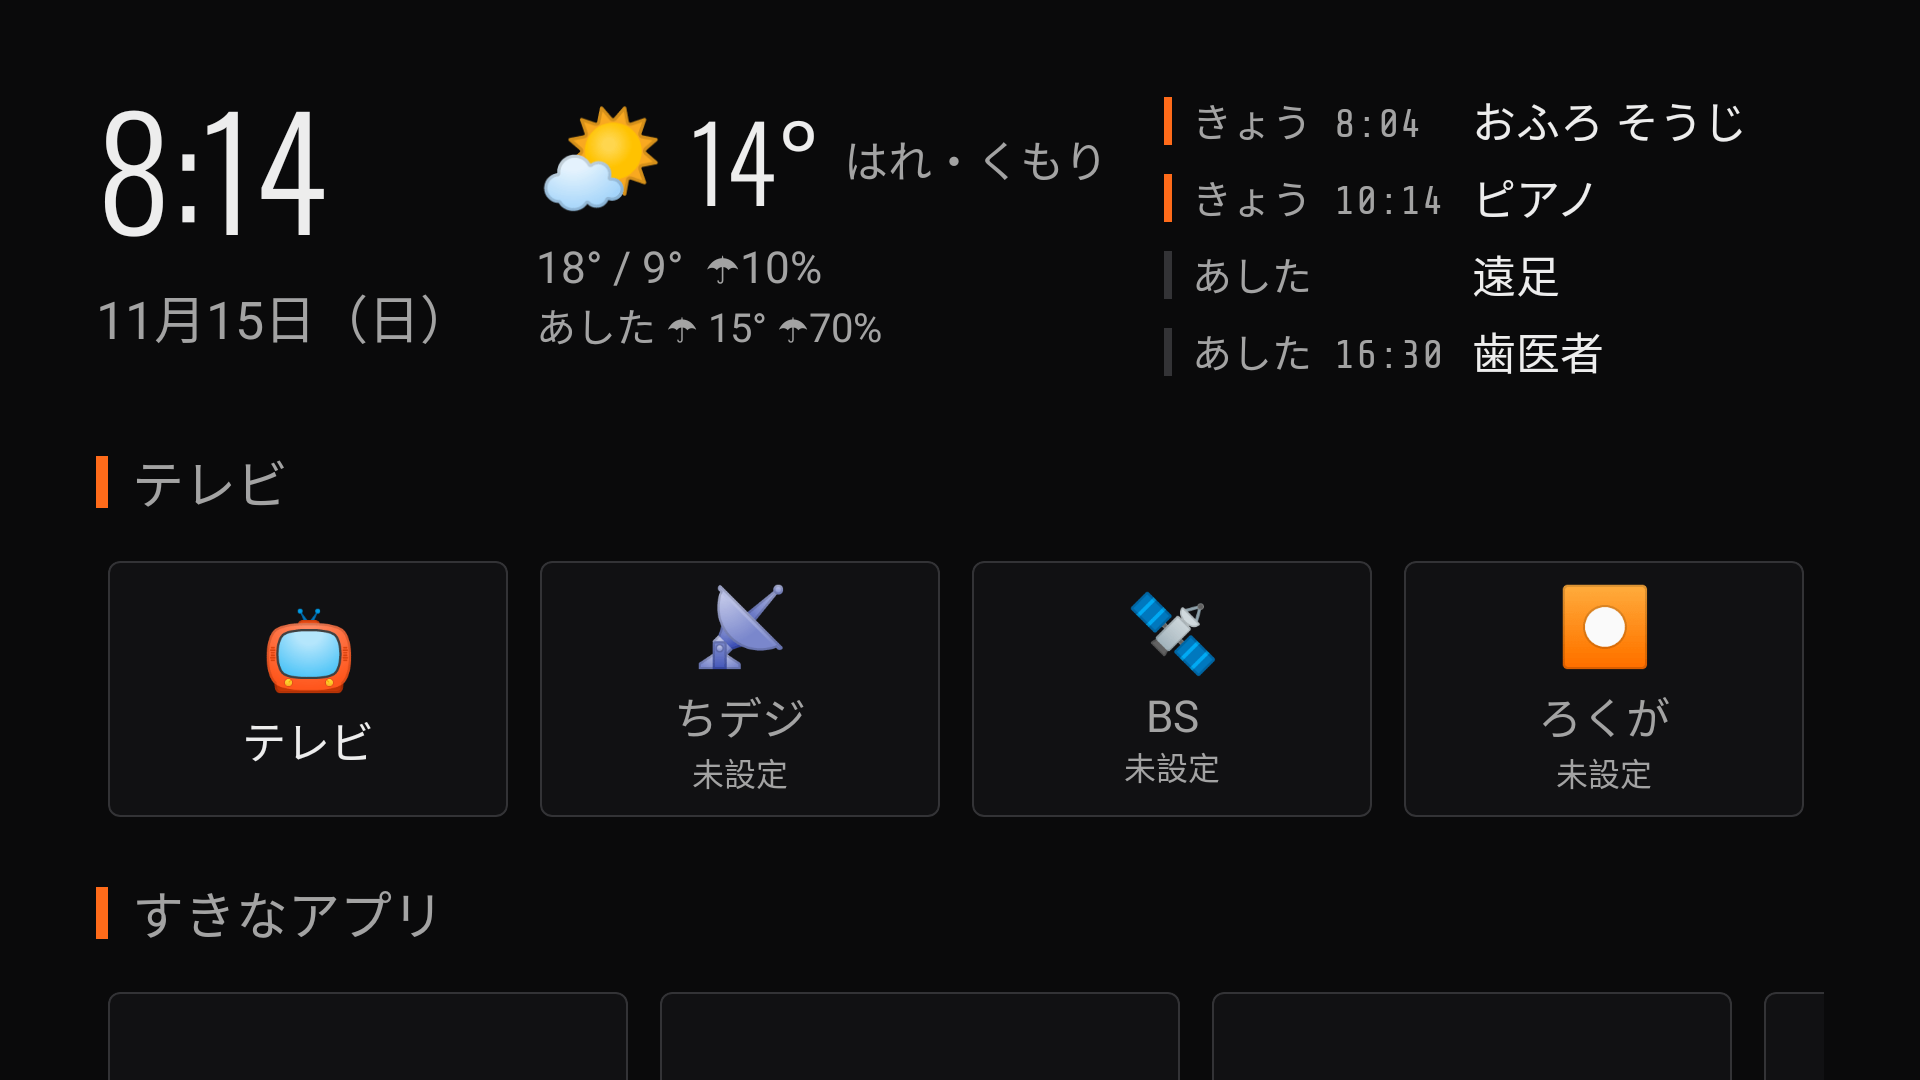
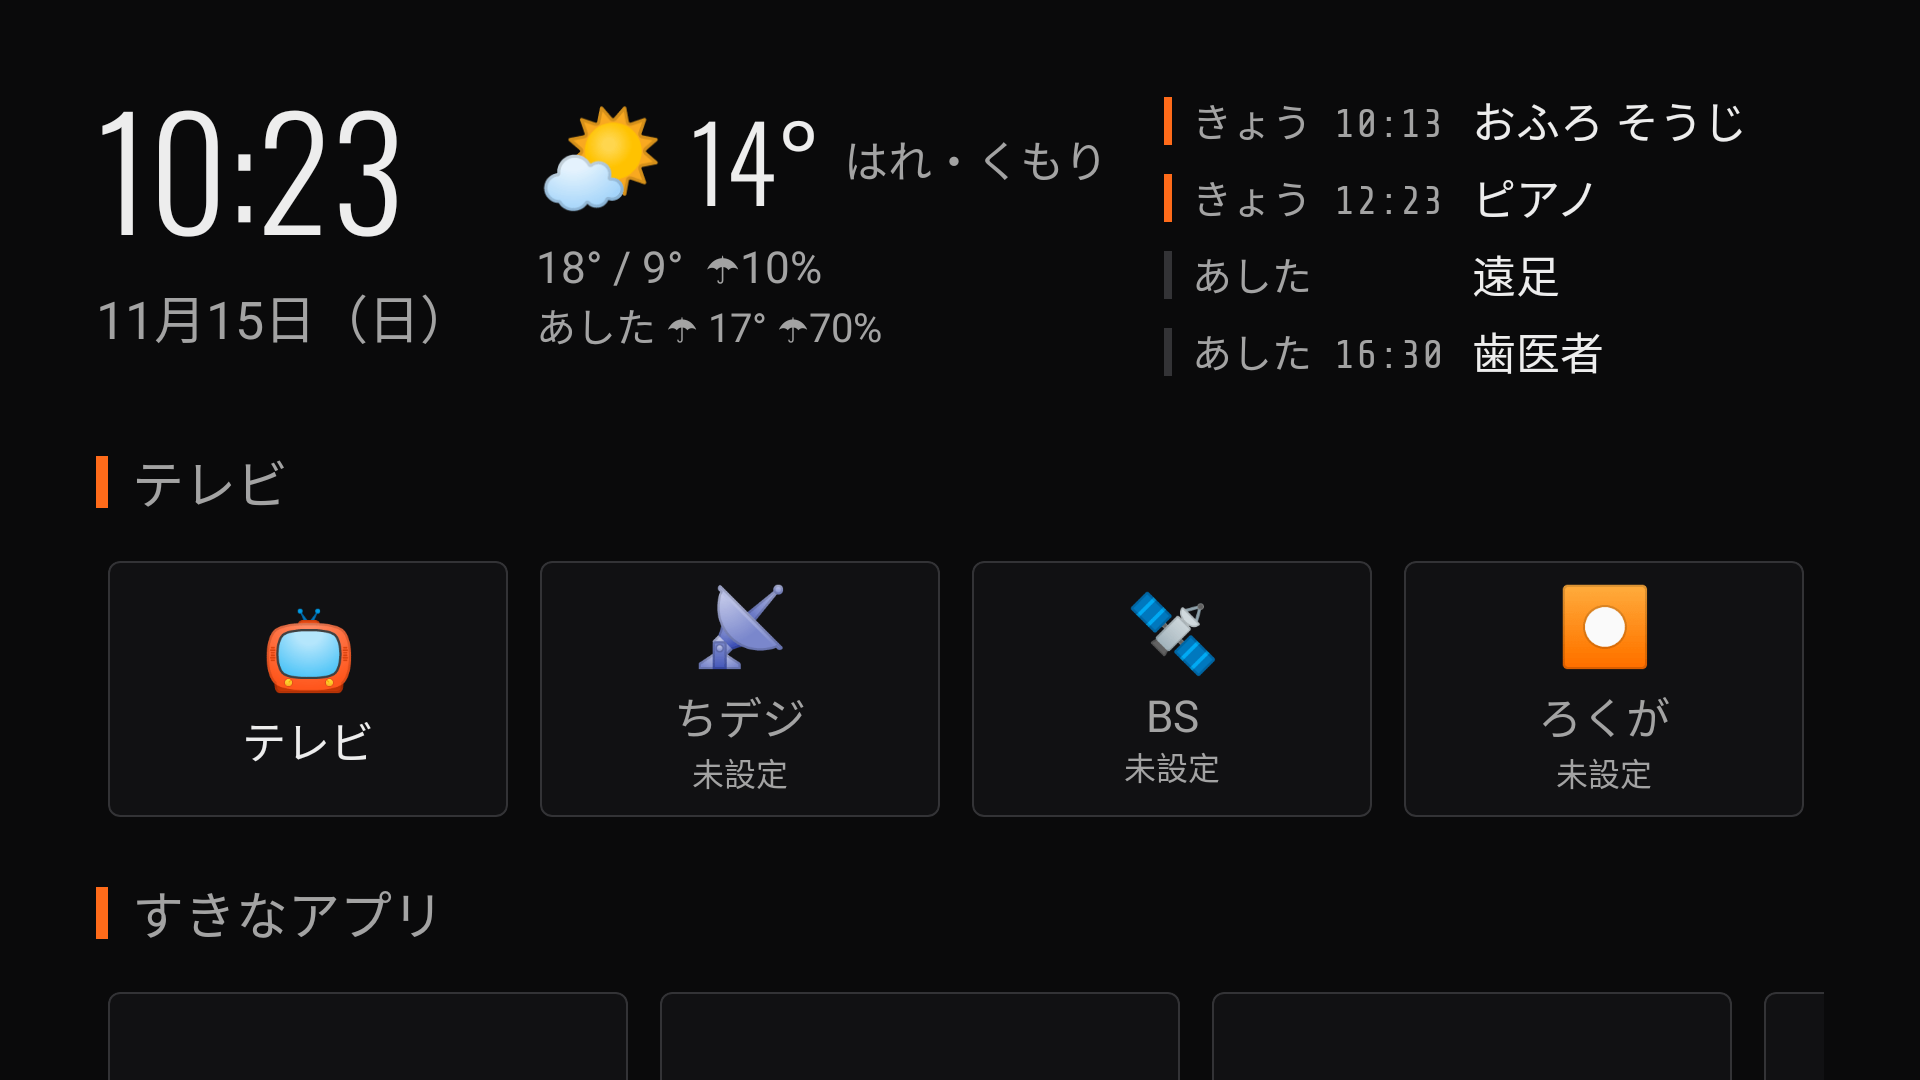
0.4.0：予定とてんき入りの月のカレンダー
Claude-Session: https://claude.ai/code/session_012DXkbyha4qRNRU1wCiPjQm

Changed region(s): [[0.0312, 0.0917, 0.2188, 0.2139], [0.6875, 0.0917, 0.75, 0.1222], [0.7188, 0.1833, 0.75, 0.2139]]

diff --git a/app/src/main/java/app/thetahatch/tvhome/ui/CrossBar.kt b/app/src/main/java/app/thetahatch/tvhome/ui/CrossBar.kt
@@ -76,11 +76,11 @@ import kotlin.math.PI
 import kotlin.math.abs
 import kotlin.math.sin
 
-private val CAT_X = 110.dp      // 選んでいるまとまりの横の位置（左の区画の中）
-private val CAT_STEP = 118.dp   // まとまりの間
+private val CAT_X = 96.dp      // 選んでいるまとまりの横の位置（左の区画の中）
+private val CAT_STEP = 104.dp   // まとまりの間
 private val BAR_Y = 200.dp      // 横の帯の高さ
 private val ITEM_STEP = 64.dp   // 項目の間
-private val LEFT_W = 530.dp     // クロスバーの区画の幅（右は計器盤）
+private val LEFT_W = 440.dp     // クロスバーの区画の幅（右は計器盤）
 
 /**
  * クロスバー＋計器盤：左にクロスバー（横にまとまり、縦に中身）、右に時計・てんき・よてい、下にネットなどの状態。
@@ -256,64 +256,42 @@ private fun ItemRow(it: Item, sel: Boolean, d: Float, i: Int, n: Int, col: Color
     }
 }
 
-/** 右の計器盤：時計・てんき・よてい。 */
+/** 右の計器盤：いま（時計・てんき・つぎの予定）と、予定とてんき入りの月のカレンダー。 */
 @Composable
 private fun Dashboard(modifier: Modifier, now: ZonedDateTime, forecast: Forecast?, events: List<Event>) {
     val p = LocalPalette.current
     Column(modifier, verticalArrangement = Arrangement.spacedBy(10.dp)) {
-        HudFrame("SYS.TIME", "じこく", trailing = now.format(DateTimeFormatter.ofPattern("EEE", Locale.US)).uppercase()) {
-            Row(verticalAlignment = Alignment.Bottom) {
+        HudFrame("NOW", "いま", trailing = now.format(DateTimeFormatter.ofPattern("EEE", Locale.US)).uppercase()) {
+            Row(verticalAlignment = Alignment.CenterVertically) {
                 T(now.format(DateTimeFormatter.ofPattern("H:mm")), size = 44.sp, font = headFont(), weight = FontWeight.Light)
-                Spacer(Modifier.width(14.dp))
-                Column(Modifier.padding(bottom = 6.dp)) {
-                    T(now.format(DateTimeFormatter.ofPattern("M月d日（E）", Locale.JAPAN)), size = 20.sp)
+                Spacer(Modifier.width(12.dp))
+                Column(Modifier.weight(1f)) {
+                    T(now.format(DateTimeFormatter.ofPattern("M/d（E）", Locale.JAPAN)), size = 18.sp)
+                    Meter((now.hour * 60 + now.minute) / 1440f, Modifier.fillMaxWidth().padding(top = 4.dp))
                 }
-            }
-            // 1 日のうち、どこまで来たか
-            Meter((now.hour * 60 + now.minute) / 1440f, Modifier.fillMaxWidth())
-        }
-        HudFrame("WX", "てんき", trailing = forecast?.let { "%.0f°".format(it.temp) } ?: "--") {
-            if (forecast == null) T("せってい で 場所を えらぶと 出ます", size = 16.sp, color = p.muted, lines = 2)
-            else {
-                val (icon, word) = Weather.describe(forecast.code, forecast.isDay)
-                Row(verticalAlignment = Alignment.CenterVertically) {
+                forecast?.let { f ->
+                    Spacer(Modifier.width(14.dp))
+                    val (icon, word) = Weather.describe(f.code, f.isDay)
                     T(icon, size = 30.sp)
-                    Spacer(Modifier.width(10.dp))
-                    T("%.0f°".format(forecast.temp), size = 32.sp, font = headFont(), weight = FontWeight.Light)
-                    Spacer(Modifier.width(10.dp))
+                    Spacer(Modifier.width(6.dp))
                     Column {
-                        T(word, size = 16.sp)
-                        forecast.days.firstOrNull()?.let { d -> T("%.0f° / %.0f°".format(d.max, d.min), size = 14.sp, color = p.muted, font = Mono) }
+                        T("%.0f°  $word".format(f.temp), size = 18.sp)
+                        f.days.firstOrNull()?.let { d -> T("%.0f°/%.0f°  ☂%d%%".format(d.max, d.min, d.rain), size = 13.sp, color = p.muted, font = Mono) }
                     }
                 }
-                Row(horizontalArrangement = Arrangement.spacedBy(12.dp)) {
-                    forecast.days.take(3).forEachIndexed { i, d ->
-                        Column(Modifier.weight(1f)) {
-                            Row(verticalAlignment = Alignment.CenterVertically) {
-                                T(listOf("きょう", "あした", "あさって")[i], size = 14.sp, color = p.muted)
-                                Spacer(Modifier.width(4.dp))
-                                T(Weather.describe(d.code).first, size = 16.sp)
-                                Spacer(Modifier.weight(1f))
-                                T("%d%%".format(d.rain), size = 12.sp, color = p.muted, font = Mono)
-                            }
-                            Meter(d.rain / 100f, Modifier.fillMaxWidth().padding(top = 2.dp), color = Color(0xFF4FA3E0))
-                        }
-                    }
-                }
+            }
+            val next = upcoming(events, now).firstOrNull()
+            if (next != null) Row(verticalAlignment = Alignment.CenterVertically) {
+                val on = next.start <= now
+                Box(Modifier.width(4.dp).height(18.dp).background(if (on) p.accent else p.widget))
+                Spacer(Modifier.width(8.dp))
+                T(if (on) "いま" else "つぎ " + eventWhen(next), size = 14.sp, color = if (on) p.accent else p.muted)
+                Spacer(Modifier.width(10.dp))
+                T(next.title, size = 16.sp)
             }
         }
-        val up = upcoming(events).take(4)
-        HudFrame("CAL", "よてい", Modifier.weight(1f), trailing = "%02d".format(upcoming(events).size)) {
-            if (up.isEmpty()) T("よていは ないよ", size = 18.sp, color = p.muted)
-            up.forEach { e ->
-                val nowOn = e.start <= now && (e.end ?: e.start) >= now
-                Row(verticalAlignment = Alignment.CenterVertically) {
-                    Box(Modifier.width(4.dp).height(22.dp).background(if (nowOn) p.accent else if (e.start.toLocalDate() == now.toLocalDate()) p.widget else p.line))
-                    Spacer(Modifier.width(10.dp))
-                    T(if (nowOn) "いま" else eventWhen(e), Modifier.width(110.dp), size = 14.sp, color = if (nowOn) p.accent else p.muted)
-                    T(e.title, size = 17.sp)
-                }
-            }
+        HudFrame("CAL", now.format(DateTimeFormatter.ofPattern("yyyy年 M月", Locale.JAPAN)), Modifier.weight(1f), trailing = "%02d".format(events.count { it.start.month == now.month })) {
+            MonthCalendar(now.toLocalDate(), events, forecast, Modifier.weight(1f))
         }
     }
 }

diff --git a/app/src/main/java/app/thetahatch/tvhome/ui/MonthCal.kt b/app/src/main/java/app/thetahatch/tvhome/ui/MonthCal.kt
@@ -1,0 +1,106 @@
+package app.thetahatch.tvhome.ui
+
+import androidx.compose.foundation.background
+import androidx.compose.foundation.border
+import androidx.compose.foundation.layout.Box
+import androidx.compose.foundation.layout.Column
+import androidx.compose.foundation.layout.Row
+import androidx.compose.foundation.layout.Spacer
+import androidx.compose.foundation.layout.fillMaxHeight
+import androidx.compose.foundation.layout.fillMaxSize
+import androidx.compose.foundation.layout.fillMaxWidth
+import androidx.compose.foundation.layout.height
+import androidx.compose.foundation.layout.padding
+import androidx.compose.foundation.layout.width
+import androidx.compose.runtime.Composable
+import androidx.compose.runtime.remember
+import androidx.compose.ui.Alignment
+import androidx.compose.ui.Modifier
+import androidx.compose.ui.draw.alpha
+import androidx.compose.ui.graphics.Color
+import androidx.compose.ui.text.font.FontWeight
+import androidx.compose.ui.unit.dp
+import androidx.compose.ui.unit.sp
+import app.thetahatch.tvhome.data.Event
+import app.thetahatch.tvhome.data.Forecast
+import app.thetahatch.tvhome.data.Weather
+import java.time.Instant
+import java.time.LocalDate
+import java.time.ZoneId
+
+/** 日曜はじまりの 6 週。 */
+fun monthGrid(today: LocalDate): List<LocalDate> {
+    val first = today.withDayOfMonth(1)
+    val start = first.minusDays((first.dayOfWeek.value % 7).toLong())
+    return (0 until 42).map { start.plusDays(it.toLong()) }
+}
+
+/** その日にかかる予定（何日も続く予定は毎日に出す）。 */
+fun eventsOn(day: LocalDate, events: List<Event>): List<Event> = events.filter { e ->
+    val s = e.start.toLocalDate()
+    // 終日の予定の終わりは「次の日の 0 時」なので 1 日戻す
+    val end = e.end?.let { if (e.allDay) it.toLocalDate().minusDays(1) else it.toLocalDate() } ?: s
+    !day.isBefore(s) && !day.isAfter(maxOf(s, end))
+}
+
+/**
+ * 予定とてんき入りの月のカレンダー。マスに日付・てんき（7 日先まで）・予定の名前（2 件、残りは +n）。
+ * きょうは accent の枠、日曜は赤、土曜は青、ほかの月は薄く。
+ */
+@Composable
+fun MonthCalendar(today: LocalDate, events: List<Event>, forecast: Forecast?, modifier: Modifier = Modifier) {
+    val p = LocalPalette.current
+    val days = remember(today) { monthGrid(today) }
+    val zone = remember { ZoneId.systemDefault() }
+    val wx = remember(forecast) {
+        forecast?.days?.associateBy { Instant.ofEpochMilli(it.date).atZone(zone).toLocalDate() }.orEmpty()
+    }
+    val sun = Color(0xFFE5534B)
+    val sat = Color(0xFF4FA3E0)
+    // 6 週目が全部ほかの月なら 5 週で出す
+    val weeks = if (days[35].month != today.month) 5 else 6
+    Column(modifier.fillMaxWidth()) {
+        Row(Modifier.fillMaxWidth()) {
+            listOf("日", "月", "火", "水", "木", "金", "土").forEachIndexed { i, w ->
+                Box(Modifier.weight(1f), contentAlignment = Alignment.Center) {
+                    T(w, size = 12.sp, color = when (i) { 0 -> sun; 6 -> sat; else -> p.muted })
+                }
+            }
+        }
+        Spacer(Modifier.height(2.dp))
+        Column(Modifier.fillMaxSize()) {
+            for (w in 0 until weeks) {
+                Row(Modifier.fillMaxWidth().weight(1f)) {
+                    for (d in 0 until 7) {
+                        val day = days[w * 7 + d]
+                        val inMonth = day.month == today.month
+                        val isToday = day == today
+                        val list = eventsOn(day, events)
+                        Column(
+                            Modifier.weight(1f).fillMaxHeight().padding(1.dp)
+                                .background(if (isToday) p.accent.copy(alpha = 0.16f) else p.panel.copy(alpha = if (inMonth) 0.5f else 0.2f))
+                                .border(if (isToday) 2.dp else 0.5.dp, if (isToday) p.accent else p.line.copy(alpha = 0.5f))
+                                .padding(horizontal = 3.dp, vertical = 1.dp)
+                                .alpha(if (inMonth) 1f else 0.4f),
+                        ) {
+                            Row(verticalAlignment = Alignment.CenterVertically) {
+                                T(day.dayOfMonth.toString(), size = 12.sp, font = Mono, weight = if (isToday) FontWeight.SemiBold else FontWeight.Normal,
+                                    color = when { isToday -> p.accent; d == 0 -> sun; d == 6 -> sat; else -> p.fg })
+                                Spacer(Modifier.weight(1f))
+                                wx[day]?.let { dw -> T(Weather.describe(dw.code).first + "%.0f".format(dw.max), size = 10.sp, color = p.muted) }
+                            }
+                            list.take(2).forEach { e ->
+                                Row(verticalAlignment = Alignment.CenterVertically) {
+                                    Box(Modifier.width(2.dp).height(10.dp).background(if (e.allDay) p.widget else p.accent))
+                                    Spacer(Modifier.width(2.dp))
+                                    T(e.title, size = 10.sp)
+                                }
+                            }
+                            if (list.size > 2) T("+${list.size - 2}", size = 9.sp, color = p.muted)
+                        }
+                    }
+                }
+            }
+        }
+    }
+}

diff --git a/app/src/test/java/app/thetahatch/tvhome/ScreenshotTest.kt b/app/src/test/java/app/thetahatch/tvhome/ScreenshotTest.kt
@@ -54,12 +54,19 @@ class ScreenshotTest {
         app.store.favorites = fake.take(4).map { it.pkg }
         NetStatus.setForTest(NetInfo("wifi", true, true, 3, 433))
         val t = System.currentTimeMillis()
-        app.state.forecast.value = Forecast(14.0, 1, true, listOf(Day(t, 1, 18.0, 9.0, 10), Day(t, 61, 15.0, 10.0, 70), Day(t, 0, 19.0, 8.0, 0)), t)
+        val codes = listOf(1, 61, 0, 3, 0, 80, 2)
+        app.state.forecast.value = Forecast(14.0, 1, true, codes.mapIndexed { i, c -> Day(t + i * 86_400_000L, c, 18.0 - i % 3, 9.0, listOf(10, 70, 0, 20, 0, 60, 10)[i]) }, t)
         app.state.events.value = listOf(
             Event("おふろ そうじ", now.minusMinutes(10), now.plusMinutes(20), false),
             Event("ピアノ", now.plusHours(2), now.plusHours(3), false),
             Event("遠足", now.plusDays(1).withHour(0), null, true),
             Event("歯医者", now.plusDays(1).withHour(16).withMinute(30), null, false),
+            Event("ピアノ", now.plusDays(7).withHour(17), null, false),
+            Event("じいじ たんじょうび", now.plusDays(4).withHour(0), null, true),
+            Event("参観日", now.minusDays(5).withHour(10), null, false),
+            Event("スイミング", now.plusDays(3).withHour(15), null, false),
+            Event("ほいくえん おやすみ", now.plusDays(9).withHour(0), now.plusDays(11).withHour(0), true),
+            Event("買い物", now.plusDays(1).withHour(10), null, false),
         )
     }
 

diff --git a/app/src/main/java/app/thetahatch/tvhome/HomeState.kt b/app/src/main/java/app/thetahatch/tvhome/HomeState.kt
@@ -78,8 +78,10 @@ class HomeState(private val app: TvHomeApp) {
                 withContext(Dispatchers.IO) {
                     val urls = store.secret("calendar.ics").split('\n', ' ').map { it.trim() }.filter { it.startsWith("http") }
                     val zone = ZoneId.systemDefault()
-                    val from = ZonedDateTime.now(zone).toLocalDate().atStartOfDay(zone)
-                    urls.flatMap { u -> Ics.events(Net.get(u.replaceFirst("webcal://", "https://")), from, 3, zone) }.sortedBy { it.start }
+                    // 月のカレンダー（6 週）に出す分：今月 1 日の週の日曜から 42 日
+                    val first = ZonedDateTime.now(zone).toLocalDate().withDayOfMonth(1)
+                    val from = first.minusDays((first.dayOfWeek.value % 7).toLong()).atStartOfDay(zone)
+                    urls.flatMap { u -> Ics.events(Net.get(u.replaceFirst("webcal://", "https://")), from, 42, zone) }.sortedBy { it.start }
                 }
             }.onSuccess { events.value = it; calendarError.value = null }
                 .onFailure { calendarAt = 0; calendarError.value = it.message ?: "読めません" }

diff --git a/app/src/test/java/app/thetahatch/tvhome/LogicTest.kt b/app/src/test/java/app/thetahatch/tvhome/LogicTest.kt
@@ -1,5 +1,6 @@
 package app.thetahatch.tvhome
 
+import app.thetahatch.tvhome.data.Event
 import app.thetahatch.tvhome.data.Ics
 import app.thetahatch.tvhome.data.Place
 import app.thetahatch.tvhome.hub.ApkFacts
@@ -93,5 +94,14 @@ class LogicTest {
         assertTrue(Verify.judge(self, good.copy(signers = setOf("x"))) { installed } is Verdict.Bad)
         assertTrue(Verify.judge(self, good.copy(versionCode = 1)) { installed } is Verdict.Bad)
         assertTrue(Verify.judge(self, good.copy(packageName = "evil")) { installed } is Verdict.Bad)
+    }
+
+    @Test fun monthGridAndMultiDay() {
+        val g = app.thetahatch.tvhome.ui.monthGrid(java.time.LocalDate.of(2026, 11, 15))
+        assertEquals(java.time.LocalDate.of(2026, 11, 1), g.first()) // 2026-11-01 は日曜
+        assertEquals(42, g.size)
+        val e = Event("連休", ZonedDateTime.of(2026, 11, 21, 0, 0, 0, 0, tokyo), ZonedDateTime.of(2026, 11, 24, 0, 0, 0, 0, tokyo), true)
+        val on = (20..24).filter { app.thetahatch.tvhome.ui.eventsOn(java.time.LocalDate.of(2026, 11, it), listOf(e)).isNotEmpty() }
+        assertEquals(listOf(21, 22, 23), on)
     }
 }

diff --git a/app/src/main/java/app/thetahatch/tvhome/data/Weather.kt b/app/src/main/java/app/thetahatch/tvhome/data/Weather.kt
@@ -29,7 +29,7 @@ object Weather {
         val url = "https://api.open-meteo.com/v1/forecast?latitude=$lat&longitude=$lon" +
             "&current=temperature_2m,weather_code,is_day" +
             "&daily=weather_code,temperature_2m_max,temperature_2m_min,precipitation_probability_max" +
-            "&timezone=auto&forecast_days=4&timeformat=unixtime"
+            "&timezone=auto&forecast_days=7&timeformat=unixtime"
         return parse(Net.get(url), System.currentTimeMillis())
     }
 

diff --git a/README.md b/README.md
@@ -11,11 +11,11 @@ Theta Hatch シリーズの 1 つ（シリーズの決まりは [Theta.Hatch.Ser
 | --- | --- |
 | ![キッズ](docs/screenshots/kids-usagi.png) | ![クロスバー](docs/screenshots/bar-braun.png) |
 
-## できること（0.3.0）
+## できること（0.4.0）
 
 | | |
 | --- | --- |
-| ホームの形 | クロスバー＋計器盤（はじめはこれ。右に時計・てんき・よてい、下にネット・Tailscale・更新）・キッズ（キッズホーム風、いろ 7 種）・たな |
+| ホームの形 | クロスバー＋計器盤（はじめはこれ。右に時計・いまのてんき・予定とてんき入りの月のカレンダー、下にネット・Tailscale・更新）・キッズ（キッズホーム風、いろ 7 種）・たな |
 | 時計・天気・予定 | 天気は Open-Meteo（キー不要）。予定は Google カレンダーの「iCal 形式の非公開 URL」（秘密として暗号化して保存） |
 | テレビの入口 | テレビ・地デジ・BS・録画・HDMI。HDMI は Android TV の決まった方法で切り替え。地デジ・BS・録画は機種ごとに違うので ADB で設定（[docs/ADB.md](docs/ADB.md)） |
 | アプリ | すきなアプリ（★）を大きく、ほかは下に。長押しかメニューボタンで ★・並べ替え・かくす |

diff --git a/docs/release-notes/v0.4.0.md b/docs/release-notes/v0.4.0.md
@@ -1,0 +1,5 @@
+クロスバーの右に、予定とてんき入りの月のカレンダー。
+
+- 月のカレンダー（日曜はじまり）：マスに日付・てんき（7 日先まで、絵と最高気温）・予定の名前（2 件、残りは +n）。何日も続く予定は毎日に。きょうは枠、日曜は赤・土曜は青
+- 上の「いま」：時計・日付・1 日の進み・いまのてんき・つぎの予定（いまの予定）
+- 予定は今月の 6 週分を読む（iCal）。てんきは 7 日分
